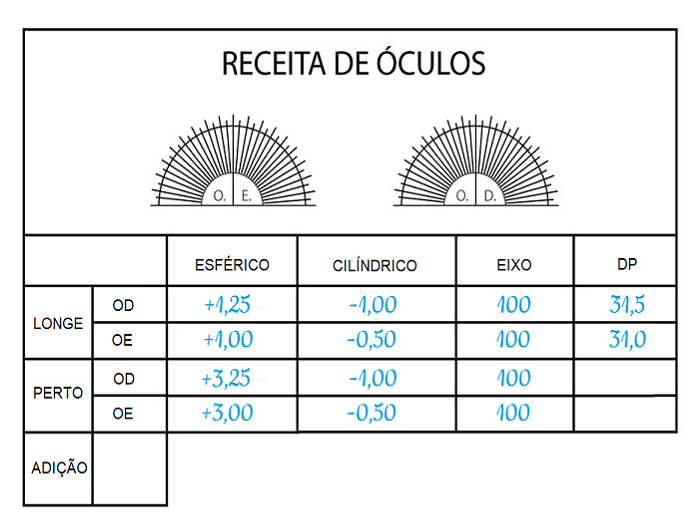
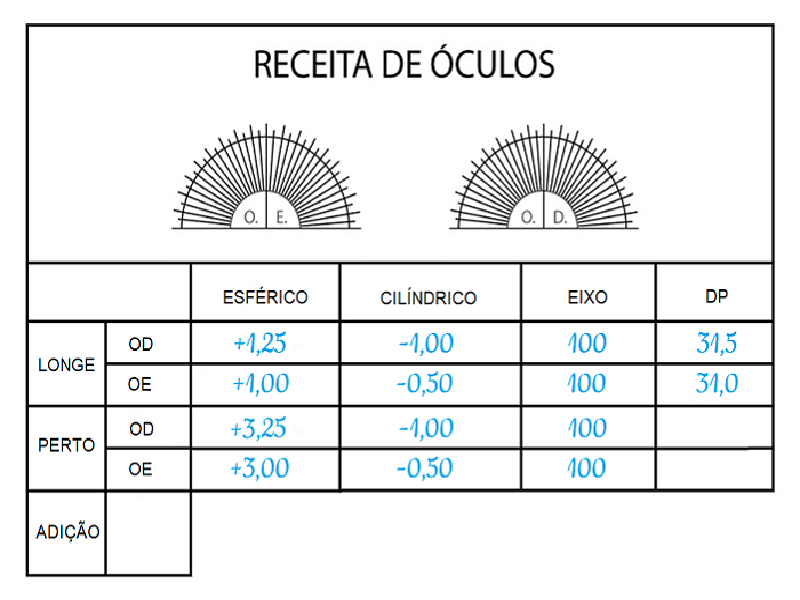
Ajustes nas imagens

diff --git a/Optical-Calculator/src/components/CalculationPage.vue b/Optical-Calculator/src/components/CalculationPage.vue
@@ -8,11 +8,16 @@
 
       <q-list class="flex flex-center q-pq-md">
         <q-img
-          :alt="title"
+          :alt="title" :ratio="4/3"
           :src="require('../assets/' + image)"
-          class="q-mx-lg"
-          style="max-height:30vh; max-width: 30vw"
-
+          class="q-mx-lg mobile-hide"
+          style="max-height:40vh; max-width: 30vw"
+        />
+        <q-img
+          :alt="title" :ratio="4/3"
+          :src="require('../assets/' + image)"
+          class="q-mx-lg mobile-only"
+          style="max-height:80vh; max-width: 60vw"
         />
         <q-item>
           <q-btn v-if="btnValidity > 0" disable :label="$t('calculate')" color="primary"/>
